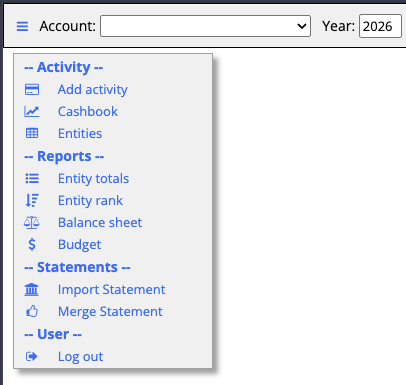
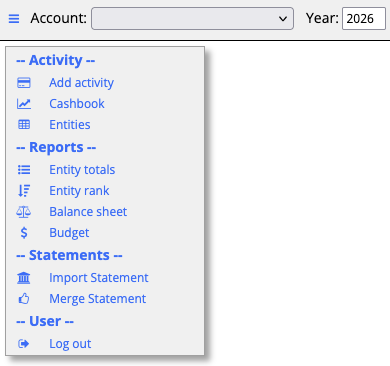
checkpoint; almost done with basic merge UI

Changed region(s): [[0.0, 0.0, 1.0, 1.0], [0.1231, 0.3306, 0.2462, 0.3607]]

diff --git a/src/main/resources/templates/merge_statement.html b/src/main/resources/templates/merge_statement.html
@@ -12,6 +12,8 @@
 	<script th:insert="~{nav :: required}" th:remove="tag"></script>
 
 	<script>
+		let haveEntities = false;
+
 		const mergeSelections = () => {
 			let selections = {};
 			document.querySelectorAll('input[type=radio][name^=item]:checked').forEach(el => {
@@ -34,12 +36,62 @@
 				})
 			);
 		};
+
+		const hiliteSelection = (selectedId) => {
+			const sel = document.getElementById('editEntity');
+			for(let option of sel.options) {
+				if(option.value === String(selectedId)) {
+					option.selected = true;
+					break;
+				}
+			}
+		};
+
+		const edit = (entryId, selectedId) => {
+			const modal = document.getElementById('myModal');
+			modal.style.display = 'grid';
+
+			if(haveEntities === true) {
+				hiliteSelection(selectedId);
+				return;
+			}
+
+			const sel = document.getElementById('editEntity');
+			fetch('api/v1/select/merchants').then(resp => {
+				resp.json().then(data => {
+					for(let item of data) {
+						sel.options[sel.options.length++] = new Option(item.description, item.id);
+					}
+					haveEntities = true;
+					hiliteSelection(selectedId);
+				})
+			}).catch(e => {
+				alert(e);
+			});
+		};
+
+		const cancel = () => {
+			document.getElementById('myModal').style.display = 'none';
+		}
 	</script>
+
+	<style>
+		.myModal {
+			position: fixed;
+			top: 40%;
+			left: 40%;
+			border: 1px solid #e0e0ff;
+			width: 400px;
+			box-shadow: 5px 5px 5px #a0a0a0;
+			margin: auto;
+			display: none;
+		}
+	</style>
 <body>
 
 <div th:insert="~{nav :: menu}"></div>
 
-<table class="mytable">
+<table class="mytable" style="padding-left: 15px; padding-top: 10px">
 	<tr>
 		<th scope="col">&nbsp;&nbsp;<i class="fa fa-thumbs-o-up"></i>&nbsp;&nbsp;</th>
 		<th scope="col">&nbsp;&nbsp;<i class="fa fa-thumbs-o-down"></i>&nbsp;&nbsp;</th>
@@ -51,12 +103,30 @@
 		<td><label><input type="radio" value="y" th:name="'item' + ${data.actionId()}"/></label></td>
 		<td><label><input type="radio" value="n" th:name="'item' + ${data.actionId()}"/></label></td>
 		<td th:text="${data.date()}"></td>
-		<td th:text="${data.entity()}" th:class="${data.isNewEntity()} ? 'new_vendor' : ''"></td>
+		<div th:switch="${data.isNewEntity()}" th:remove="tag">
+			<td th:case="true"><a href='#' th:onMouseDown="'edit(' + ${data.actionId()} + ',' + ${data.entityId()} + ')'" th:text="${data.entity()}" class="editdel"></a></td>
+			<td th:case="false" th:text="${data.entity()}"></td>
+		</div>
 		<td th:class="${data.amount} < 0 ? 'negative': 'positive'" th:text="${#numbers.formatDecimal(data.amount,1,2)}"></td>
 	</tr>
 </table>
 
+<br/>
 <input type="button" value=" persist choices " onMouseDown="mergeSelections()"/>
+
+<div class="myModal" id="myModal">
+	<div style="margin: auto">
+		<br/><br/>
+		<div>Edit entity: <select id="editEntity"></select></div>
+		<br/><br/>
+		<div>
+			<button type="button" onClick='updateRecord()'>update</button>&nbsp;&nbsp;&nbsp;&nbsp;&nbsp;&nbsp;
+			<button type="button" onClick='cancel()'>cancel</button>
+		</div>
+		<br/><br/>
+	</div>
+</div>
+
 
 </body>
 </html>

diff --git a/src/main/java/com/lavacro/finances/services/StatementsService.java b/src/main/java/com/lavacro/finances/services/StatementsService.java
@@ -23,7 +23,7 @@ public class StatementsService {
 
 	@Language(value = "SQL")
 	private static final String GET_STATEMENT_QUERY = """
-		SELECT a.action_id, a.mydate, e.embedding IS NULL AS new_vendor, e.description AS vendor, a.amount
+		SELECT a.action_id, a.mydate, e.embedding IS NULL AS new_vendor, e.description AS vendor, a.amount, a.entity AS entity_id
 		FROM staging.action a
 		JOIN entities e ON a.entity = e.id
 		WHERE account = :account
@@ -55,6 +55,7 @@ public class StatementsService {
 				rows.getInt("action_id"),
 				rows.getDate("mydate").toLocalDate(),
 				rows.getBoolean("new_vendor"),
+				rows.getInt("entity_id"),
 				rows.getString("vendor"),
 				rows.getBigDecimal("amount")
 			);

diff --git a/src/main/java/com/lavacro/finances/dto/StatementDTO.java b/src/main/java/com/lavacro/finances/dto/StatementDTO.java
@@ -7,6 +7,7 @@ public record StatementDTO(
 	Integer actionId,
 	LocalDate date,
 	boolean isNewEntity,
+	Integer entityId,
 	String entity,
 	BigDecimal amount
 ) { }

diff --git a/README.md b/README.md
@@ -99,7 +99,7 @@ You can also use the `gradlew` wrapper.
 To prepare a deployment image:
 
 ```shell
-podman build . -t localhost/finances:x.y.z
+podman build . -t pi4apps:5000/finances:x.y.z
 ```
 
 Ensure the image release name matches in `Dockerfile` and `helm/values.yaml`.